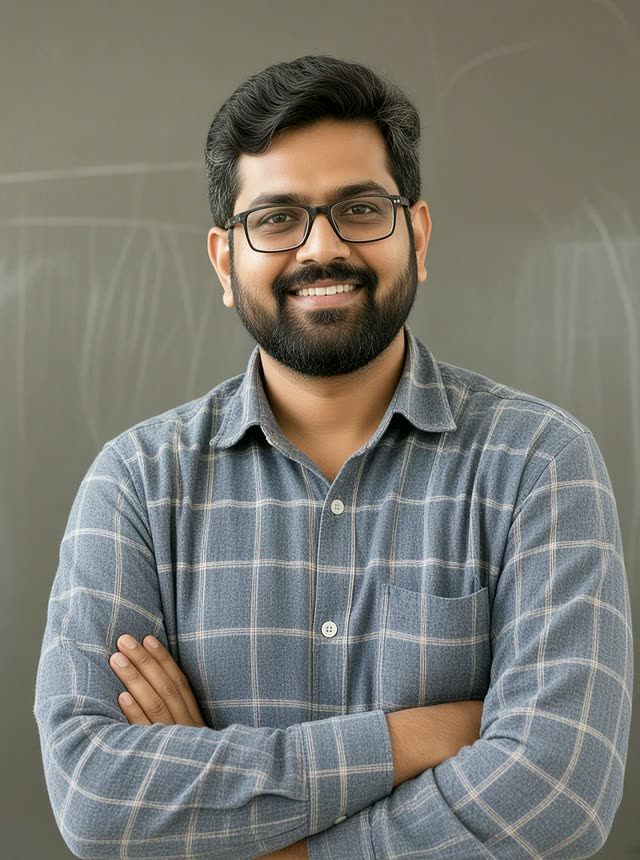
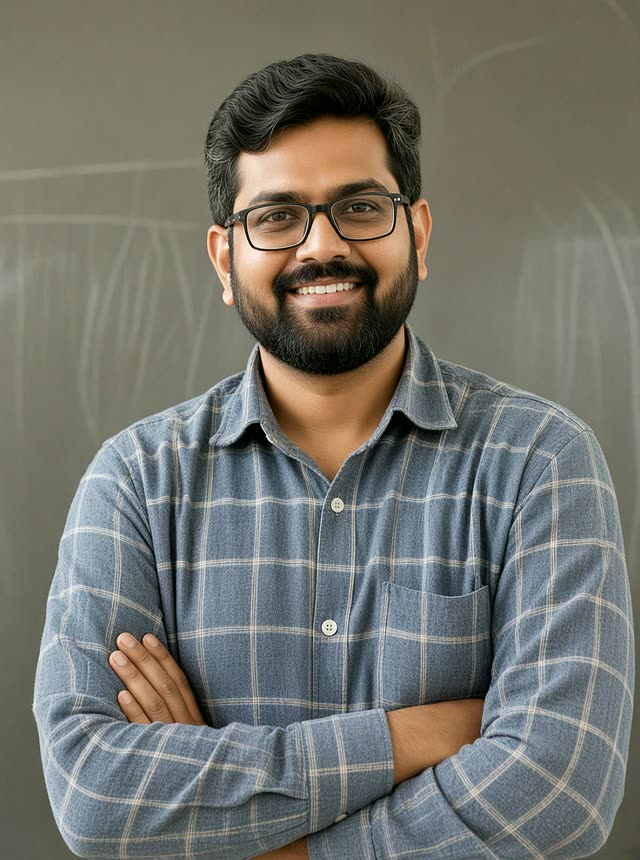
Match Kabir Joshi DP skin to warm golden-olive ref
Keep pose, check shirt, glasses, and chalkboard; retint skin
to warm medium-tan with natural pores and desk117 cache-bust.

Changed region(s): [[0.0312, 0.0605, 1.0, 1.0]]

diff --git a/js/app.js b/js/app.js
@@ -812,7 +812,7 @@ const MENTORS = [
   { name: "Neha Kapoor", role: "Options specialist", tag: "Income strategies", img: "/img/instructors/neha-kapoor.jpg?v=7" },
   { name: "Vikram Singh", role: "Price action coach", tag: "Swing trading", img: "https://images.unsplash.com/photo-1506794778202-cad84cf45f1d?auto=format&fit=crop&w=640&h=860&q=80" },
   { name: "Ananya Rao", role: "Long-term investor", tag: "Portfolio", img: "https://images.unsplash.com/photo-1573496359142-b8d87734a5a2?auto=format&fit=crop&w=640&h=860&q=80" },
-  { name: "Kabir Joshi", role: "Index options", tag: "Bank Nifty", img: "/img/instructors/kabir-joshi.jpg?v=1" },
+  { name: "Kabir Joshi", role: "Index options", tag: "Bank Nifty", img: "/img/instructors/kabir-joshi.jpg?v=2" },
   { name: "Rohan Desai", role: "Fund researcher", tag: "Mutual funds", img: "https://images.unsplash.com/photo-1519085360753-af0119f7cbe7?auto=format&fit=crop&w=640&h=860&q=80" },
   { name: "Priya Nair", role: "Asset allocation", tag: "SIP lab", img: "https://images.unsplash.com/photo-1580489944761-15a19d654956?auto=format&fit=crop&w=640&h=860&q=80" },
   { name: "Meera Iyer", role: "Options coach", tag: "Defined risk", img: "https://images.unsplash.com/photo-1438761681033-6461ffad8d80?auto=format&fit=crop&w=640&h=860&q=80" }
@@ -4903,6 +4903,7 @@ function traderIcon(kind) {
 /* cache-bust desk114: Neha Kapoor DP Isha-look compose (pose/cloth/bg + phone realism) /img/instructors/neha-kapoor.jpg?v=6; Aarav unchanged */
 /* cache-bust desk115: edge purge after CF poison on #71 (?v=6 held old JPEG; app.js?v=desk114 held pre-merge) /img/instructors/neha-kapoor.jpg?v=7 */
 /* cache-bust desk116: Kabir Joshi instructor DP chalkboard check shirt /img/instructors/kabir-joshi.jpg?v=1 */
+/* cache-bust desk117: Kabir Joshi DP skin tone warm medium-tan golden-olive /img/instructors/kabir-joshi.jpg?v=2 */
 function traderCardHTML(m, i, opts = {}) {
   const title = String(m.role || m.tag || "Mentor").trim();
   const cloneAttrs = opts.clone ? ' tabindex="-1" aria-hidden="true"' : "";

diff --git a/account.html b/account.html
@@ -17,7 +17,7 @@
   <div id="site-header"></div>
   <main id="accountRoot" class="ld-page"></main>
   <div id="site-footer"></div>
-  <script src="/js/app.js?v=desk116" defer></script>
+  <script src="/js/app.js?v=desk117" defer></script>
   <script src="/js/lms.js?v=cert2" defer></script>
 </body>
 </html>

diff --git a/learning.html b/learning.html
@@ -17,7 +17,7 @@
   <div id="site-header"></div>
   <main id="myLearning" class="ld-page"></main>
   <div id="site-footer"></div>
-  <script src="/js/app.js?v=desk116" defer></script>
+  <script src="/js/app.js?v=desk117" defer></script>
   <script src="/js/lms.js?v=cert2" defer></script>
 </body>
 </html>

diff --git a/course.html b/course.html
@@ -22,7 +22,7 @@
     </div>
   </main>
   <div id="site-footer"></div>
-  <script src="/js/app.js?v=desk116" defer></script>
+  <script src="/js/app.js?v=desk117" defer></script>
   <script src="/js/lms.js?v=cert2" defer></script>
   <script src="/js/drm.js?v=desk29" defer></script>
 </body>

diff --git a/contact.html b/contact.html
@@ -48,7 +48,7 @@
   </main>
   <div id="site-footer"></div>
   <script src="/js/help-faqs.js?v=faq1" defer></script>
-  <script src="/js/app.js?v=desk116" defer></script>
+  <script src="/js/app.js?v=desk117" defer></script>
   <script src="/js/lms.js" defer></script>
 </body>
 </html>

diff --git a/certificate.html b/certificate.html
@@ -19,7 +19,7 @@
     <div id="certRoot"></div>
   </main>
   <div id="site-footer"></div>
-  <script src="/js/app.js?v=desk116" defer></script>
+  <script src="/js/app.js?v=desk117" defer></script>
   <script src="/js/lms.js?v=cert2" defer></script>
 </body>
 </html>

diff --git a/control.html b/control.html
@@ -253,7 +253,7 @@
         loading = true;
         busy(true);
         var files = [
-          "/js/app.js?v=desk116",
+          "/js/app.js?v=desk117",
           "/js/lms.js",
           "/js/admin-core.js?v=desk8",
           "/js/admin.js?v=drm5",

diff --git a/index.html b/index.html
@@ -415,7 +415,7 @@
     </section>
   </main>
   <div id="site-footer"></div>
-  <script src="/js/app.js?v=desk116" defer></script>
+  <script src="/js/app.js?v=desk117" defer></script>
   <script src="/js/lms.js?v=cert2" defer></script>
 </body>
 </html>

diff --git a/live-room.html b/live-room.html
@@ -22,7 +22,7 @@
 </head>
 <body class="live-room-page">
   <div id="liveRoom"></div>
-  <script src="/js/app.js?v=desk116" defer></script>
+  <script src="/js/app.js?v=desk117" defer></script>
   <script src="/js/lms.js" defer></script>
 </body>
 </html>

diff --git a/nifty-options.html b/nifty-options.html
@@ -44,7 +44,7 @@
     </section>
   </main>
   <div id="site-footer"></div>
-  <script src="/js/app.js?v=desk116" defer></script>
+  <script src="/js/app.js?v=desk117" defer></script>
   <script src="/js/lms.js?v=cert2" defer></script>
 </body>
 </html>

diff --git a/option-trading-course.html b/option-trading-course.html
@@ -44,7 +44,7 @@
     </section>
   </main>
   <div id="site-footer"></div>
-  <script src="/js/app.js?v=desk116" defer></script>
+  <script src="/js/app.js?v=desk117" defer></script>
   <script src="/js/lms.js?v=cert2" defer></script>
 </body>
 </html>

diff --git a/share-market-course-in-hindi.html b/share-market-course-in-hindi.html
@@ -42,7 +42,7 @@
     </section>
   </main>
   <div id="site-footer"></div>
-  <script src="/js/app.js?v=desk116" defer></script>
+  <script src="/js/app.js?v=desk117" defer></script>
   <script src="/js/lms.js?v=cert2" defer></script>
 </body>
 </html>
